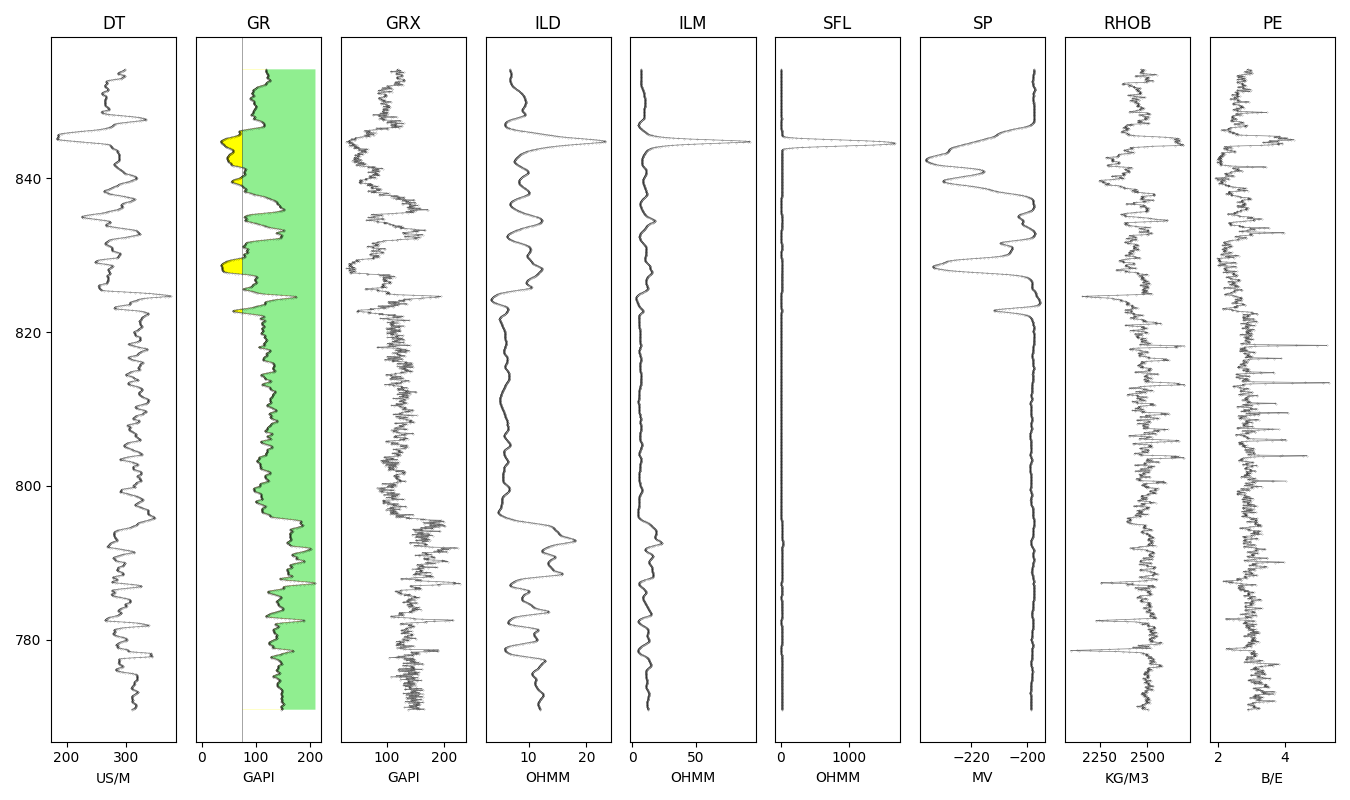
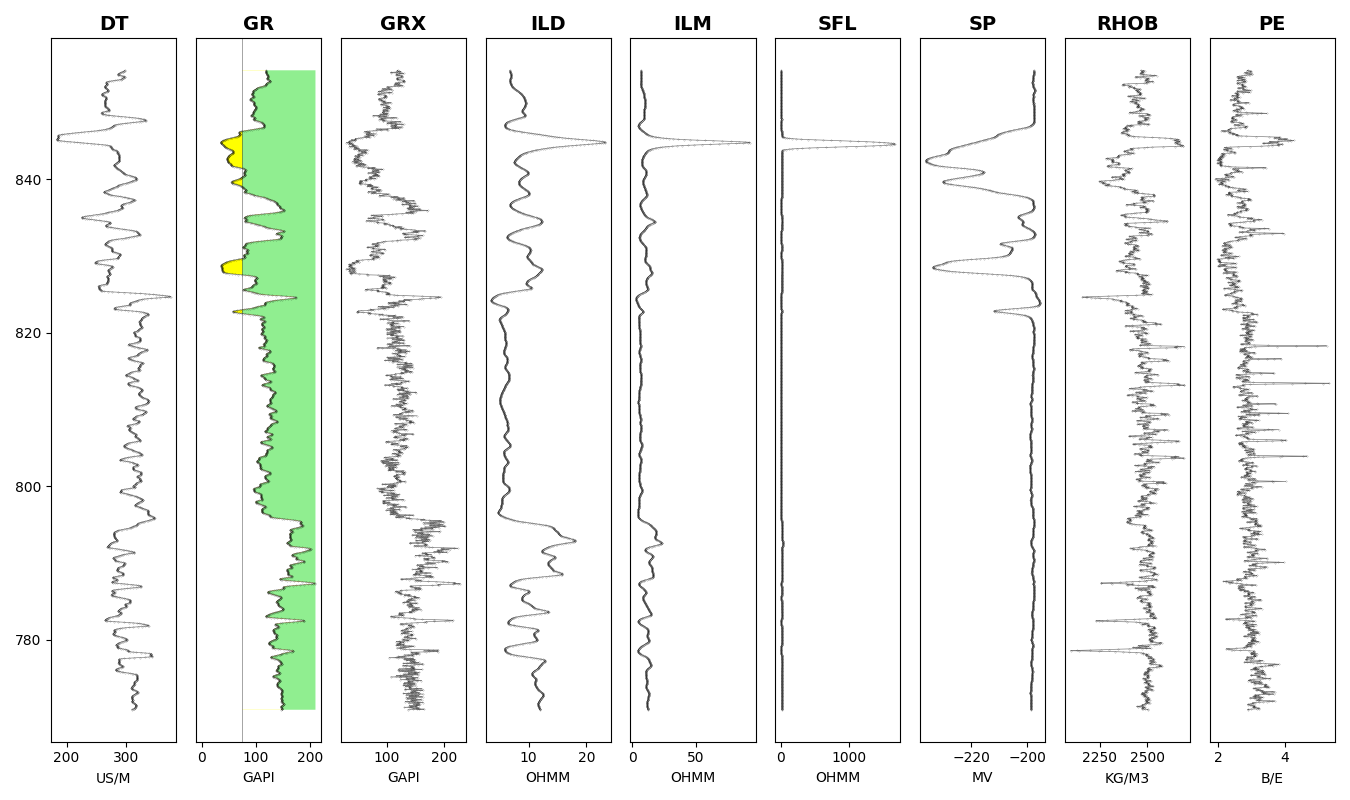
fixed aesthetic issues

diff --git a/src/loghorz/andy12.py b/src/loghorz/andy12.py
@@ -39,18 +39,21 @@ for i, curve in enumerate(non_depth_curves):
         df.plot(
             x=curve, y='DEPTH', color='black', title=curve, ax=ax, xlabel=unit,
             linewidth=0.5, marker='o', markersize='0.2', alpha=0.5, legend=False)
+        ax.set_title(curve, fontweight='bold', fontsize=14)
     elif curve == 'GR':
         df.plot(
             x='GR', y='DEPTH', color='black', title=curve, ax=ax, xlabel=unit,
-            linewidth = 0.5, marker = 'o', markersize = '0.2', alpha=0.5, legend=False)
+            linewidth=0.5, marker='o', markersize='0.2', alpha=0.5, legend=False)
         ax.fill_betweenx(df['DEPTH'], df['GR'], 210, facecolor='lightgreen')
         ax.fill_betweenx(df['DEPTH'], df['GR'], 75, facecolor='yellow')
         ax.fill_betweenx(df['DEPTH'], df['GR'], 0, facecolor='white')
         ax.axvline(75, color='black', linewidth=0.5, alpha=0.5)
+        ax.set_title(curve, fontweight='bold', fontsize=14)
     elif curve == 'PE':
         df.plot(
             x='PE', y='DEPTH', color='black', title=curve, ax=ax, xlabel=unit,
             linewidth=0.5, marker='o', markersize='0.2', alpha=0.5, legend=False)
+        ax.set_title(curve, fontweight='bold', fontsize=14)
 
 plt.tight_layout()
 plt.savefig('../../figures/filled_highres.png')
